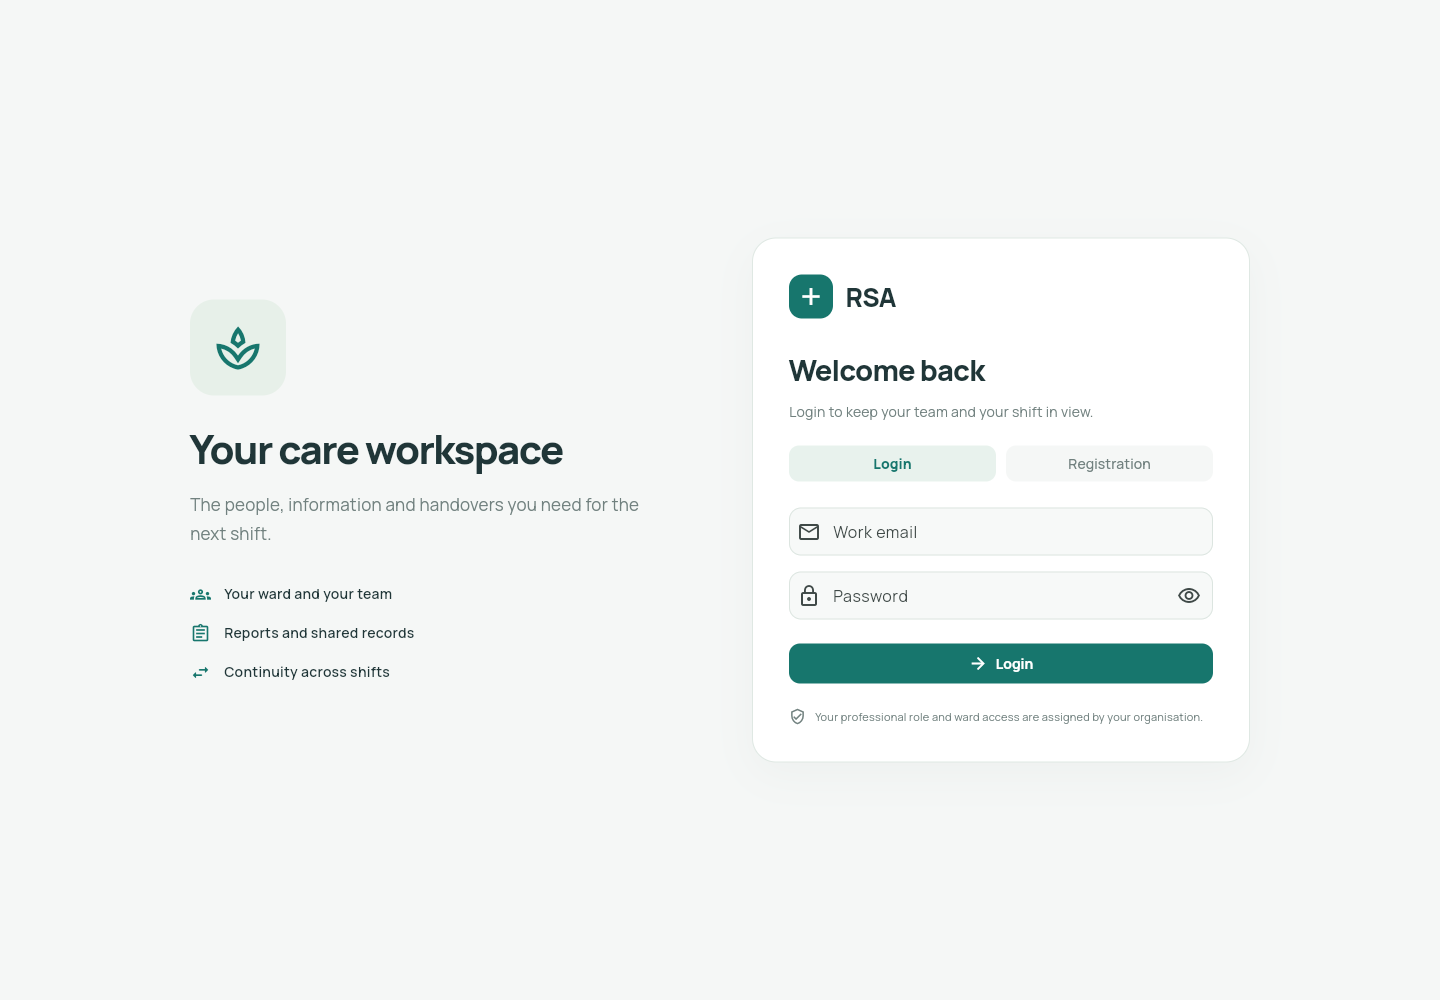
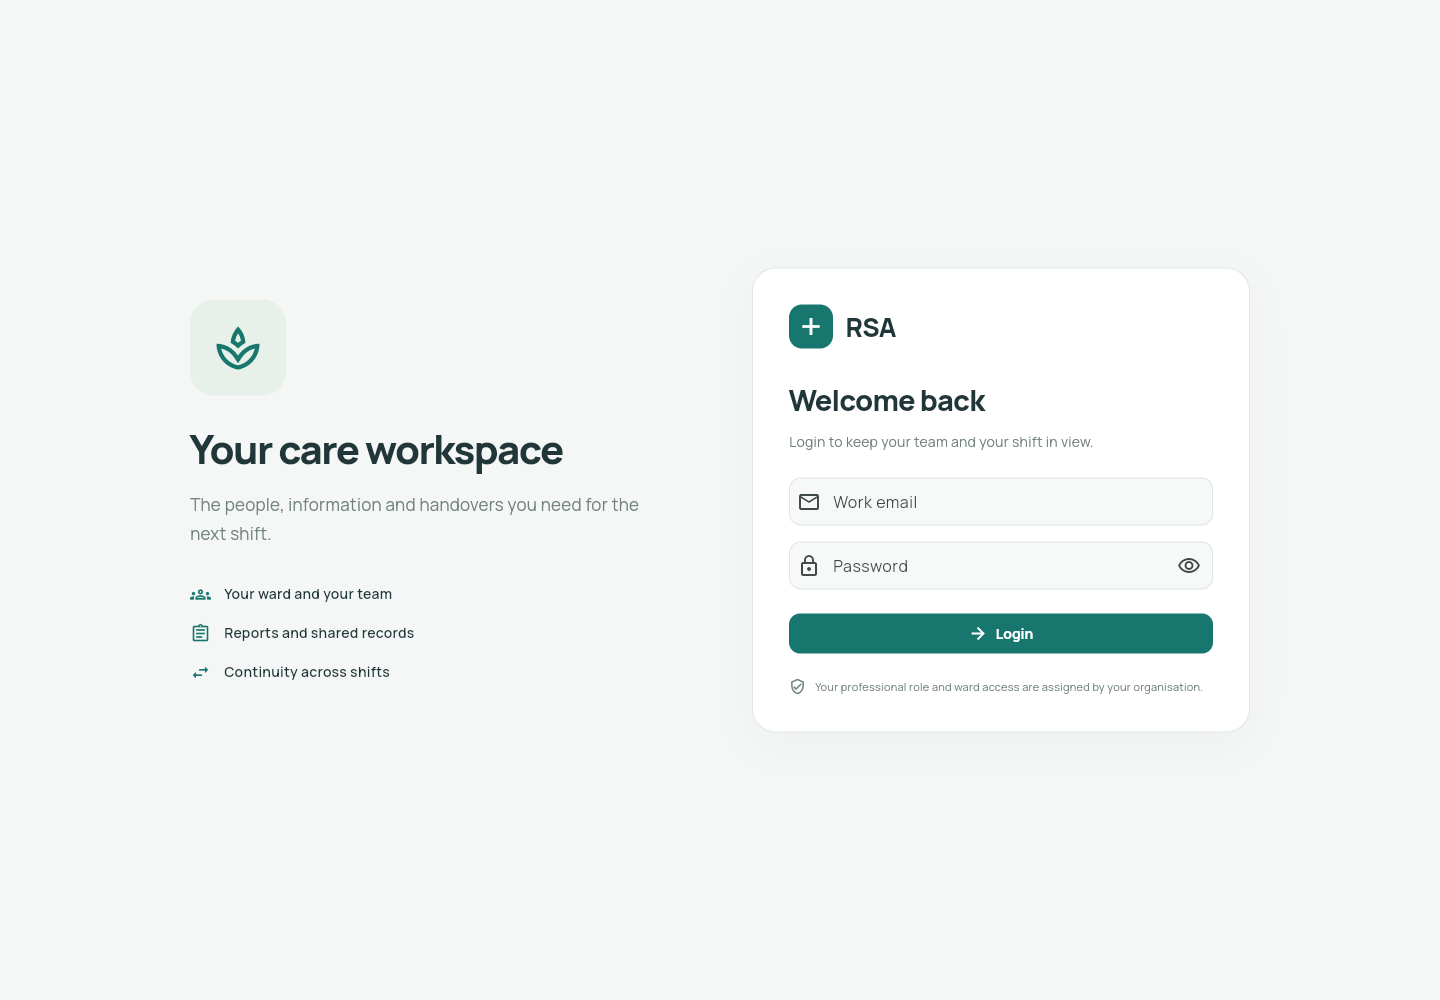
Remove self-service registration and keep login-only access

Changed region(s): [[0.5312, 0.496, 0.8438, 0.744], [0.5312, 0.279, 0.7812, 0.465]]

diff --git a/lib/features/access.dart b/lib/features/access.dart
@@ -1,26 +1,22 @@
 import 'package:flutter/material.dart';
 import 'package:flutter_riverpod/flutter_riverpod.dart';
-import 'package:go_router/go_router.dart';
 
 import '../core/providers.dart';
 import '../shared/ui.dart';
 
 class AccessScreen extends ConsumerStatefulWidget {
-  final bool register;
-  const AccessScreen({super.key, this.register = false});
+  const AccessScreen({super.key});
   @override
   ConsumerState<AccessScreen> createState() => _AccessScreenState();
 }
 
 class _AccessScreenState extends ConsumerState<AccessScreen> {
-  final _name = TextEditingController();
   final _email = TextEditingController();
   final _password = TextEditingController();
   bool _showPassword = false;
 
   @override
   void dispose() {
-    _name.dispose();
     _email.dispose();
     _password.dispose();
     super.dispose();
@@ -40,7 +36,6 @@ class _AccessScreenState extends ConsumerState<AccessScreen> {
   @override
   Widget build(BuildContext context) {
     final busy = ref.watch(accessSessionProvider).isSigningIn;
-    final registration = widget.register;
     return Scaffold(
       key: const Key('access-screen'),
       body: SafeArea(
@@ -79,71 +74,22 @@ class _AccessScreenState extends ConsumerState<AccessScreen> {
                             children: [
                               const _AccessLogo(),
                               const SizedBox(height: 30),
-                              Text(
-                                registration
-                                    ? 'Join your care workspace'
-                                    : 'Welcome back',
-                                style: const TextStyle(
+                              const Text(
+                                'Welcome back',
+                                style: TextStyle(
                                   fontSize: 29,
                                   fontWeight: FontWeight.w800,
                                   letterSpacing: -.8,
                                 ),
                               ),
                               const SizedBox(height: 10),
-                              Text(
-                                registration
-                                    ? 'Set up your account details to get started.'
-                                    : 'Login to keep your team and your shift in view.',
-                                style: const TextStyle(
-                                  color: muted,
-                                  height: 1.6,
-                                ),
-                              ),
-                              const SizedBox(height: 24),
-                              Row(
-                                children: [
-                                  Expanded(
-                                    child: _AccessTab(
-                                      label: 'Login',
-                                      selected: !registration,
-                                      onTap: busy
-                                          ? null
-                                          : () => context.go('/login'),
-                                    ),
-                                  ),
-                                  const SizedBox(width: 10),
-                                  Expanded(
-                                    child: _AccessTab(
-                                      label: 'Registration',
-                                      selected: registration,
-                                      onTap: busy
-                                          ? null
-                                          : () => context.go('/register'),
-                                    ),
-                                  ),
-                                ],
+                              const Text(
+                                'Login to keep your team and your shift in view.',
+                                style: TextStyle(color: muted, height: 1.6),
                               ),
                               const SizedBox(height: 26),
-                              if (registration) ...[
-                                TextField(
-                                  key: const Key('register-name'),
-                                  controller: _name,
-                                  enabled: !busy,
-                                  textCapitalization: TextCapitalization.words,
-                                  textInputAction: TextInputAction.next,
-                                  decoration: const InputDecoration(
-                                    labelText: 'Full name',
-                                    prefixIcon: Icon(Icons.person_outline),
-                                  ),
-                                ),
-                                const SizedBox(height: 16),
-                              ],
                               TextField(
-                                key: ValueKey(
-                                  registration
-                                      ? 'register-email'
-                                      : 'login-email',
-                                ),
+                                key: const Key('login-email'),
                                 controller: _email,
                                 enabled: !busy,
                                 keyboardType: TextInputType.emailAddress,
@@ -155,20 +101,12 @@ class _AccessScreenState extends ConsumerState<AccessScreen> {
                               ),
                               const SizedBox(height: 16),
                               TextField(
-                                key: ValueKey(
-                                  registration
-                                      ? 'register-password'
-                                      : 'login-password',
-                                ),
+                                key: const Key('login-password'),
                                 controller: _password,
                                 enabled: !busy,
                                 obscureText: !_showPassword,
                                 textInputAction: TextInputAction.done,
-                                onSubmitted: busy
-                                    ? null
-                                    : (_) => registration
-                                          ? context.go('/login')
-                                          : _login(),
+                                onSubmitted: busy ? null : (_) => _login(),
                                 decoration: InputDecoration(
                                   labelText: 'Password',
                                   prefixIcon: const Icon(Icons.lock_outline),
@@ -194,16 +132,8 @@ class _AccessScreenState extends ConsumerState<AccessScreen> {
                               SizedBox(
                                 width: double.infinity,
                                 child: FilledButton.icon(
-                                  key: ValueKey(
-                                    registration
-                                        ? 'register-continue'
-                                        : 'login-submit',
-                                  ),
-                                  onPressed: busy
-                                      ? null
-                                      : registration
-                                      ? () => context.go('/login')
-                                      : _login,
+                                  key: const Key('login-submit'),
+                                  onPressed: busy ? null : _login,
                                   icon: busy
                                       ? const SizedBox(
                                           width: 18,
@@ -217,11 +147,7 @@ class _AccessScreenState extends ConsumerState<AccessScreen> {
                                           Icons.arrow_forward,
                                           size: 19,
                                         ),
-                                  label: Text(
-                                    registration
-                                        ? 'Continue to login'
-                                        : 'Login',
-                                  ),
+                                  label: const Text('Login'),
                                 ),
                               ),
                               const SizedBox(height: 24),
@@ -286,33 +212,6 @@ class _AccessLogo extends StatelessWidget {
         ),
       ),
     ],
-  );
-}
-
-class _AccessTab extends StatelessWidget {
-  final String label;
-  final bool selected;
-  final VoidCallback? onTap;
-  const _AccessTab({
-    required this.label,
-    required this.selected,
-    required this.onTap,
-  });
-  @override
-  Widget build(BuildContext context) => TextButton(
-    onPressed: onTap,
-    style: TextButton.styleFrom(
-      foregroundColor: selected ? teal : muted,
-      backgroundColor: selected ? const Color(0xffe8f2ed) : canvas,
-      padding: const EdgeInsets.symmetric(horizontal: 12, vertical: 16),
-      shape: RoundedRectangleBorder(borderRadius: BorderRadius.circular(10)),
-    ),
-    child: Text(
-      label,
-      style: TextStyle(
-        fontWeight: selected ? FontWeight.w800 : FontWeight.w500,
-      ),
-    ),
   );
 }
 

diff --git a/test/access_and_chat_test.dart b/test/access_and_chat_test.dart
@@ -138,13 +138,12 @@ void main() {
   );
 
   testWidgets(
-    'registration remains public and returns to login without signing in',
+    'old registration links return to login without signup controls',
     (tester) async {
       await show(tester, location: '/register');
-      expect(find.byKey(const Key('register-name')), findsOneWidget);
+      expect(find.text('Registration'), findsNothing);
+      expect(find.byKey(const Key('register-name')), findsNothing);
       expect(find.byType(WorkspaceShell), findsNothing);
-      await tester.tap(find.byKey(const Key('register-continue')));
-      await tester.pumpAndSettle();
       expect(router(tester).routeInformationProvider.value.uri.path, '/login');
       expect(find.byKey(const Key('login-submit')), findsOneWidget);
       await finish(tester);
@@ -184,26 +183,19 @@ void main() {
     },
   );
 
-  for (final registration in [false, true]) {
-    testWidgets(
-      'access page register=$registration fits a phone with larger text',
-      (tester) async {
-        await show(
-          tester,
-          location: registration ? '/register' : '/login',
-          size: const Size(320, 720),
-          textScale: 1.3,
-        );
-        final action = find.byKey(
-          ValueKey(registration ? 'register-continue' : 'login-submit'),
-        );
-        await tester.ensureVisible(action);
-        await tester.pumpAndSettle();
-        expect(action.hitTestable(), findsOneWidget);
-        await finish(tester);
-      },
+  testWidgets('login fits a phone with larger text', (tester) async {
+    await show(
+      tester,
+      location: '/login',
+      size: const Size(320, 720),
+      textScale: 1.3,
     );
-  }
+    final action = find.byKey(const Key('login-submit'));
+    await tester.ensureVisible(action);
+    await tester.pumpAndSettle();
+    expect(action.hitTestable(), findsOneWidget);
+    await finish(tester);
+  });
 
   for (final size in [const Size(390, 844), const Size(1440, 1000)]) {
     testWidgets(

diff --git a/lib/app/app.dart b/lib/app/app.dart
@@ -73,7 +73,7 @@ class _RsaAppState extends ConsumerState<RsaSessionApp>
       refreshListenable: Listenable.merge([r, session]),
       redirect: (context, state) {
         final path = state.uri.path;
-        final accessPage = path == '/login' || path == '/register';
+        final accessPage = path == '/login';
         if (!session.isSignedIn) return accessPage ? null : '/login';
         final care = r.can(Capability.care);
         final landing = care
@@ -107,10 +107,7 @@ class _RsaAppState extends ConsumerState<RsaSessionApp>
           path: '/login',
           builder: (context, state) => const AccessScreen(),
         ),
-        GoRoute(
-          path: '/register',
-          builder: (context, state) => const AccessScreen(register: true),
-        ),
+        GoRoute(path: '/register', redirect: (context, state) => '/login'),
         GoRoute(path: '/', redirect: (context, state) => '/home'),
         GoRoute(path: '/ocr', redirect: (context, state) => '/documents'),
         GoRoute(

diff --git a/tool/smoke_web.py b/tool/smoke_web.py
@@ -47,10 +47,9 @@ with sync_playwright() as p:
     page.set_viewport_size({'width': 390, 'height': 844})
     page.screenshot(path=str(shots / 'login-mobile.png'))
     page.set_viewport_size({'width': 1440, 'height': 1000})
-    page.get_by_role('button', name='Registration', exact=True).click()
-    expect(page.get_by_role('button', name='Continue to login', exact=True)).to_be_visible()
-    page.screenshot(path=str(shots / 'registration-desktop.png'))
-    page.get_by_role('button', name='Continue to login', exact=True).click()
+    assert page.get_by_role('button', name='Registration', exact=True).count() == 0
+    navigate(page, 'register')
+    expect(page.get_by_role('button', name='Login', exact=True)).to_be_visible()
     login(page)  # No email or password is supplied.
     expect(page.get_by_role('button', name='Check out', exact=True)).to_be_visible()
     page.screenshot(path=str(shots / 'desktop.png'))
@@ -155,6 +154,6 @@ with sync_playwright() as p:
     login(page)
     expect(page.get_by_role('button', name='Check out', exact=True)).to_be_visible()
     assert not errors, errors
-    print(f'PASS: public login/registration, empty login as Emily, confirmed/cancelled logout, signed-out URL/back guards, first chat open, handover/documents/conversations, durable records and offline reopening ({cached} cached assets), mobile navigation; no page errors.')
+    print(f'PASS: login only, legacy registration redirect, empty login as Emily, confirmed/cancelled logout, signed-out URL/back guards, first chat open, handover/documents/conversations, durable records and offline reopening ({cached} cached assets), mobile navigation; no page errors.')
     context.close()
     browser.close()

diff --git a/docs/VERIFICATION.md b/docs/VERIFICATION.md
@@ -7,7 +7,7 @@ Workspace redesign checked on 28 October 2026; handover presentation, staff-upda
 | `flutter pub get` / `flutter gen-l10n` | Passed; lockfile and generated ARB accessors included. |
 | `dart format --output=none --set-exit-if-changed lib test integration_test test_driver` | Passed; 43 Dart files, no formatting changes. |
 | `flutter analyze` | Passed: no issues. |
-| `flutter test --reporter expanded` | **110 passed**: 57 domain/persistence tests and 53 widget tests. No skipped tests. |
+| `flutter test --reporter expanded` | **109 passed**: 57 domain/persistence tests and 52 widget tests. No skipped tests. |
 | Browser integration through Flutter drive | **1 passed**, zero framework errors. Actual UI report → inbox → event conversation (does not claim) → explicit claim → saved correction with safe dialog dismissal → diary → handover sources/amendment. |
 | `./tool/build_web.sh` | Passed release web compilation, local engine/font assets, 46-file static-shell cache. The compiler's optional WASM dry run also succeeded; a dedicated `--wasm` deployment was not exercised. |
 | `python3 tool/smoke_web.py` against the served release build | Passed handover/document/conversation page navigation, hidden unopened event discussions, startup, real attendance change, refresh persistence, service-worker installation, complete offline reopening, 390px mobile navigation/report and no JavaScript page errors. |
@@ -58,8 +58,10 @@ The release browser check also types and submits an update, reloads the handover
 
 ## Public access and first chat opening
 
-Nine widget regressions cover default login, signed-out clinical/administrative/unknown URL guards, empty-field entry as Emily even when a different local account was selected previously, registration navigation, logout cancellation and confirmation with cleared navigation, both access forms at 320px with enlarged text, and immediate first conversation opening on phone and desktop with a long thread. Chat routes use NoTransitionPage and the reverse viewport starts at its minimum extent before later frames.
+Eight widget regressions cover default login, signed-out clinical/administrative/unknown URL guards, empty-field entry as Emily even when a different local account was selected previously, redirection of old registration links to login, logout cancellation and confirmation with cleared navigation, login at 320px with enlarged text, and immediate first conversation opening on phone and desktop with a long thread. Chat routes use NoTransitionPage and the reverse viewport starts at its minimum extent before later frames.
 
 Existing care and role workflow tests explicitly inject an authenticated fixture session; the production provider remains signed out by default. No user-facing role selector or credential-validation claim was introduced.
 
-The release-browser check covers login/registration, no-data login, first conversation opening, logout confirmation/cancellation, browser Back and direct URL denial while signed out, and renewed frontend entry after full reload. Record persistence and offline reopening are checked after entering through the public login page. The temporary session is intentionally not persisted and no backend authentication or account creation is performed.
+The release-browser check covers login without signup, no-data login, first conversation opening, logout confirmation/cancellation, browser Back and direct URL denial while signed out, and renewed frontend entry after full reload. Record persistence and offline reopening are checked after entering through the public login page. The temporary session is intentionally not persisted and no backend authentication or account creation is performed.
+
+Self-service registration was removed at the user's request. Accounts are created manually in the database. The login screen contains no registration tab or form; the former `/register` route redirects to Login.

diff --git a/README.md b/README.md
@@ -34,7 +34,7 @@ Android needs an Android SDK, Java, and a device/emulator; the app sets a minimu
 
 A fresh application load opens the public **Login** page. Click **Login** with both fields empty to enter as **Emily Carter, Nurse, Oak Ward**. This is the temporary frontend entry requested for reviewing the app; credentials are not checked and no identity provider is contacted.
 
-**Registration** opens the account-details form; **Continue to login** returns to Login without creating an account. Account creation, credential validation and persistent sessions will be connected to the backend.
+There is no self-service registration. User accounts are added manually in the database. Credential validation and persistent sessions will be connected to the backend; old `/register` links return to Login.
 
 Use the profile avatar/name at the top right to open Account settings. **Log out** asks for confirmation, clears the frontend navigation session and returns to Login. Cancelling keeps the workspace open. Internal URLs and browser Back cannot display protected pages while signed out. Clinical records and saved work remain in the local database. The frontend session is in memory, so a full reload starts at Login again.
 
@@ -126,7 +126,7 @@ flutter drive --driver=test_driver/integration_test.dart \
   --chrome-binary=/path/to/chrome --headless
 ```
 
-In the cloud, Chromium is `/usr/bin/chromium`; add `--web-browser-flag=--no-sandbox --web-browser-flag=--disable-dev-shm-usage`. The isolated integration browser resets synthetic data in its own origin/profile. Unit/widget tests use an independent database. The cloud verification passed **110 unit/widget tests**, the browser integration flow, the release build and offline-reopening smoke check. See [verification results](docs/VERIFICATION.md) for actual outcomes, and [scope checklist](docs/CHECKLIST.md) for limitations.
+In the cloud, Chromium is `/usr/bin/chromium`; add `--web-browser-flag=--no-sandbox --web-browser-flag=--disable-dev-shm-usage`. The isolated integration browser resets synthetic data in its own origin/profile. Unit/widget tests use an independent database. The cloud verification passed **109 unit/widget tests**, the browser integration flow, the release build and offline-reopening smoke check. See [verification results](docs/VERIFICATION.md) for actual outcomes, and [scope checklist](docs/CHECKLIST.md) for limitations.
 
 ## Prototype boundaries
 
@@ -140,7 +140,7 @@ Backlog: FHIR connectors; no-code routing editor; forecasting/advanced workload 
 
 ## Screenshots
 
-[Login desktop](docs/screenshots/login-desktop.png) · [Login phone](docs/screenshots/login-mobile.png) · [Registration](docs/screenshots/registration-desktop.png) · [Account/logout](docs/screenshots/account-desktop.png)
+[Login desktop](docs/screenshots/login-desktop.png) · [Login phone](docs/screenshots/login-mobile.png) · [Account/logout](docs/screenshots/account-desktop.png)
 
 ![RSA desktop workspace](docs/screenshots/desktop.png)
 

diff --git a/docs/CHECKLIST.md b/docs/CHECKLIST.md
@@ -1,7 +1,7 @@
 # Implementation scope
 
 - [x] Shared Flutter Android/iOS/Web project; pinned dependencies and native permissions.
-- [x] Adaptive Material 3 shell, public login/registration UI, confirmed logout, signed-out navigation guards, one-tap reporting, go_router history and Riverpod updates.
+- [x] Adaptive Material 3 shell, public login UI with manually provisioned accounts, confirmed logout, signed-out navigation guards, one-tap reporting, go_router history and Riverpod updates.
 - [x] Connected twelve-entity domain, explicit ward-role capabilities, service-layer checks.
 - [x] Durable Drift native/web storage, matching SQLite WASM/worker, transactional idempotency and claims.
 - [x] Eight event types/default priorities, resident/other subject, editable time, place, optional notes/media and drafts.
